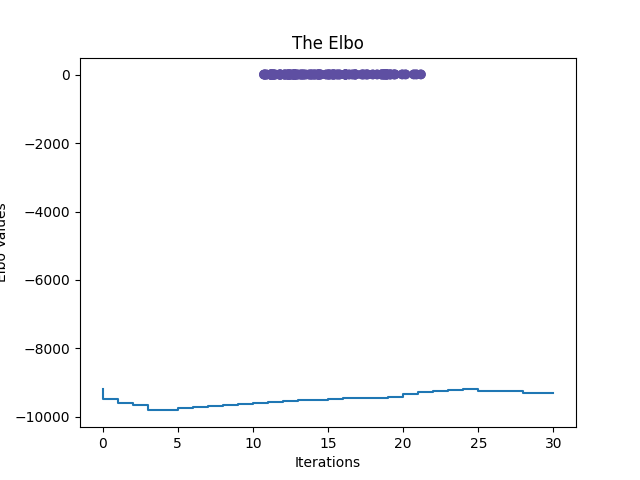
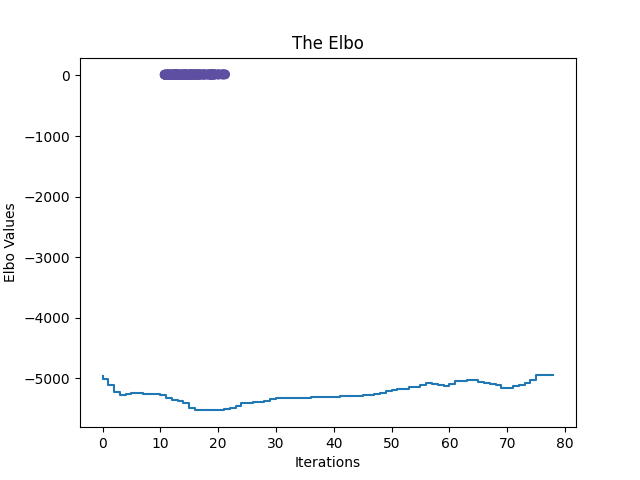
test on seed dataset -> not working

diff --git a/root/controller/specify_user_input/specify_user_input.py b/root/controller/specify_user_input/specify_user_input.py
@@ -16,21 +16,21 @@ def specify_user_input(robust_mean, robust_inv_cov_mat, Y):
     J = 2
     # Numero di classi massime nel Dirichlet Process
     #T = 20
-    T = 50
+    T = 30
 
     # Num iteration and tolerance cavi
     n_iter = 1000
     tol = 1e-4
 
     #HYPERPARAMETERS
-    gamma = 25
+    gamma = 5
     # gamma -> parametro dello Stick Breaking -> scalare
     # iperparametro tra 1 e 50 tipo oppure buttarci su una distribuzione e una prior
 
     #a_dir_k = np.ones(J + 1)*2
     #a_dir_k = np.ones(J + 1) * 0.1
-    a_dir_k = np.ones(J) * 0.1
-    a_dir_k = np.append(a_dir_k, 1)
+    a_dir_k = np.ones(J+1)
+    a_dir_k[0] = 0.1
 
     # a_dir_k -> vettore delle componenti della Dir0ichlet -> vettore di (J+1) componenti
     # J = num_classes_learning
@@ -44,12 +44,12 @@ def specify_user_input(robust_mean, robust_inv_cov_mat, Y):
     #mu_0_DP = np.ones(p)  # così che sia comunque della forma n_elems x p
     mu_0_DP = np.zeros(p)
 
-    nu_0_DP = np.array([10])
+    nu_0_DP = np.array([2])
 
     lambda_0_DP = np.array([0.1])
 
 
-    PHI_0_DP = np.multiply(np.identity(p), 1)
+    PHI_0_DP = np.multiply(np.identity(p), 5)
 
 
     #NIW_MIX_0

diff --git a/root/controller/cavi/cavi.py b/root/controller/cavi/cavi.py
@@ -25,6 +25,15 @@ def cavi(Y: jnp.array, list_robust_mean, hyperparameters_model : Hyperparameters
         update_parameters(Y, hyperparameters_model, variational_parameters, starting_parameters)
         elbo_values.append(elbo_calculator(Y, hyperparameters_model, variational_parameters, p))
         print('iter' ,i,' elbo: ',elbo_values[i])
+        print('\n')
+        print('mu = ', variational_parameters.nIW.mu)
+        print('lambda = ', variational_parameters.nIW.lambdA)
+        print('nu = ', variational_parameters.nIW.nu)
+        print('PHI = ', variational_parameters.nIW.phi)
+        print('a_beta = ', variational_parameters.a_k_beta)
+        print('b_beta = ', variational_parameters.b_k_beta)
+        print('phi_m = ', variational_parameters.phi_m_k)
+        print('eta = ', variational_parameters.eta_k)
 
         if (i > 0) and (abs(elbo_values[i] - elbo_values[i-1]) < tol):
             print('\nConvergence of elbo in ', i, ' iterations')

diff --git a/root/controller/cavi/utils/useful_functions.py b/root/controller/cavi/utils/useful_functions.py
@@ -29,8 +29,8 @@ def E_log_beta_unjitted(a,b):
     return jdigamma(a)-jdigamma(a+b)
 E_log_beta = jax.jit(E_log_beta_unjitted)
 # val atteso log densità normal inverse wishart
-
-#def E_log_dens_norm_inv_wish_q(mu,nu,lam,psi,p,l):
+#
+# def E_log_dens_norm_inv_wish_q(mu,nu,lam,psi,p,l):
 #    # p dim of mu
 #    ret = +jnp.log(jdet(psi))
 #    ret = ret -jnp.sum(jdigamma((nu - l) / 2))
